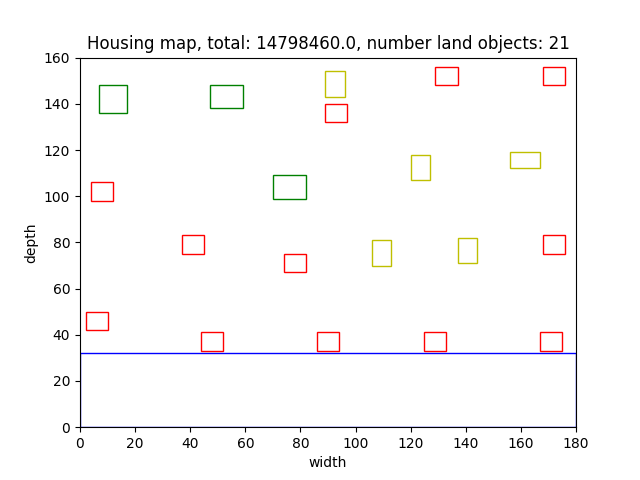
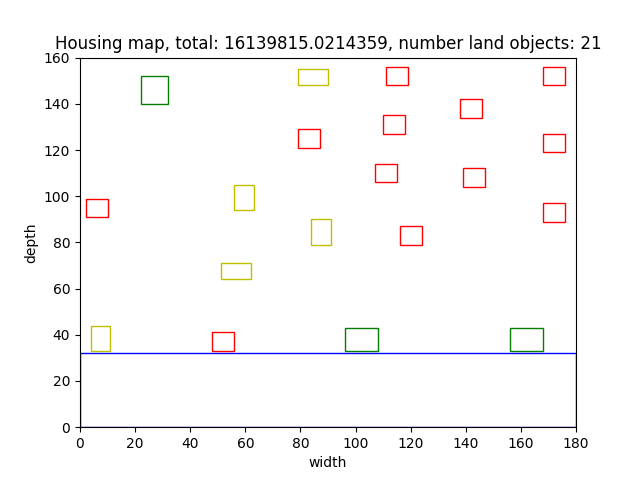
final push befor final merge

diff --git a/project_code/algorithms/hillclimber.py b/project_code/algorithms/hillclimber.py
@@ -4,7 +4,6 @@ from copy import deepcopy
 from shapely.geometry import Polygon
 from project_code.visualisations.visualise import visualise
 import matplotlib.pyplot as plt
-import random
 
 class HillClimber():
 
@@ -31,77 +30,38 @@ class HillClimber():
         generations = []
         generations.append("copy_map")
         current_best_value = copy_map.total
-        # counter = 0
-        # iterations = 1
-        # steps = 1
+        counter = 0
+        iterations = 55
+        # steps = 2
 
         # data for iteration graph
         iteration_counter = 0
         results = []
         total_iterations = []
 
-        # for i in range(iterations):
+        for i in range(iterations):
 
-            # if i < 7:
-            #     steps = 8
-            # if i >= 7 and i < 14:
-            #     steps = 7
-            # if i >= 14 and i < 21:
-            #     steps = 6
-            # if i >= 21 and i < 24:
-            #     steps = 5
-            # if i >= 24 and i < 28:
-            #     steps = 4
-            # if i >= 32 and i < 36:
-            #     steps = 3
-            # if i >= 40 and i < 44:
-            #     steps = 2
-            # if i >= 44:
-            #     steps = 1
+            if i < 7:
+                steps = 8
+            if i >= 7 and i < 14:
+                steps = 7
+            if i >= 14 and i < 21:
+                steps = 6
+            if i >= 21 and i < 24:
+                steps = 5
+            if i >= 24 and i < 28:
+                steps = 4
+            if i >= 32 and i < 36:
+                steps = 3
+            if i >= 40 and i < 44:
+                steps = 2
+            if i >= 44:
+                steps = 1
 
-            # for house in copy_map.all_land_objects:
-        houses = []
-        for house in copy_map.all_land_objects:
-            if house.name != "water":
-                houses.append(house)
-
-        for j in range(5000):
-            house = random.choice(houses)
-            for i in range(1):
+            for house in copy_map.all_land_objects:
                 copy_map.total = 0
                 if house.name != "water":
-                    if i == 0:
-                        steps = 1
-                    if i == 1:
-                        steps = 7
-                    if i == 2:
-                        steps = 6
-                    if i == 3:
-                        steps = 5
-                    if i == 4:
-                        steps = 4
-                    if i == 5:
-                        steps = 3
-                    if i == 6:
-                        steps = 2
-                    if i == 7:
-                        steps = 1
-                    # if i < 2:
-                    #     steps = 8
-                    # if i >= 2 and i < 4:
-                    #     steps = 7
-                    # if i >= 4 and i < 6:
-                    #     steps = 6
-                    # if i >= 6 and i < 8:
-                    #     steps = 5
-                    # if i >= 8 and i < 10:
-                    #     steps = 4
-                    # if i >= 10 and i < 12:
-                    #     steps = 3
-                    # if i >= 12 and i < 14:
-                    #     steps = 2
-                    # if i >= 14:
-                    #     steps = 1
+
                     # moves house to the right
                     total_value_right = 0
                     house.move(steps, 0)
@@ -229,7 +189,7 @@ class HillClimber():
                         generations.pop(0)          
                         generations.append("bottom_left_corner")
                         current_best_value = total_value_bottom_left_corner 
-                                                
+                                               
                     # makes the decisive move based upon the best value
                     if generations[0] == "right":
                         house.move(steps, 0)
@@ -251,14 +211,12 @@ class HillClimber():
 
                     generations = ["copy_map"]
 
-                    # counter += 1
-                    # print(f"counter: {counter}")
-
-                    # data for iteration graph
-                    iteration_counter += 1
-                    print(iteration_counter)
-                    total_iterations.append(iteration_counter)
-                    results.append(current_best_value)
+            counter += 1
+            print(f"counter: {counter}")
+            # data for iteration graph
+            iteration_counter += 1
+            total_iterations.append(iteration_counter)
+            results.append(current_best_value)
 
         # calculates value for return object
         copy_map.calculate_distance(copy_map.all_land_objects)

diff --git a/main.py b/main.py
@@ -60,8 +60,8 @@ if __name__ == "__main__":
     results = []
     winner = None
     counter = 0
-    for i in range(1):
-        starting_graph = Randomise(empty_graph, number_of_houses, 1)
+    for i in range(3):
+        starting_graph = Randomise(empty_graph, number_of_houses, 400)
         winner_graph = HillClimber(starting_graph.winner)
         results.append(winner_graph.winner.total_real)
 
@@ -76,8 +76,9 @@ if __name__ == "__main__":
 
         counter += 1
         # print(counter) 
-
-    visualise(winner.winner.all_land_objects, winner.winner.total_real, len(winner.winner.all_land_objects))
+    winner = Simulated_annealing(winner_graph.winner, number_of_houses).end_result
+    visualise(winner.all_land_objects, winner.total, len(winner.all_land_objects))
+    # visualise(winner.winner.all_land_objects, winner.winner.total_real, len(winner.winner.all_land_objects))
 
     # ---------------------------------------------------------------------
 

diff --git a/project_code/classes/land.py b/project_code/classes/land.py
@@ -31,8 +31,8 @@ class Land():
         # checks all land objects if overlap return true
         for land_object in self.all_land_objects:
             if land_object.name != 'water':
-                # if house.polygon_free_space.intersects(land_object.polygon) == True or land_object.polygon_free_space.intersects(house.polygon_free_space) == True:
-                if house.polygon.intersects(land_object.polygon) == True:
+                if house.polygon_free_space.intersects(land_object.polygon) == True or land_object.polygon_free_space.intersects(house.polygon_free_space) == True:
+                # if house.polygon.intersects(land_object.polygon) == True:
                     return True        
             elif land_object.name == 'water':
                 if land_object.polygon.intersects(house.polygon) == True:

diff --git a/project_code/algorithms/simulated_annealing.py b/project_code/algorithms/simulated_annealing.py
@@ -7,7 +7,8 @@ from copy import deepcopy
 class Simulated_annealing():
 
     def __init__(self, empty_graph, number_houses):
-        self.start_map = Randomise(empty_graph, number_houses, 400).winner
+        # self.start_map = Randomise(empty_graph, number_houses, 400).winner
+        self.start_map = empty_graph
         self.calc_price(self.start_map)
         self.end_result = self.simulated_annealing(self.start_map)
 
